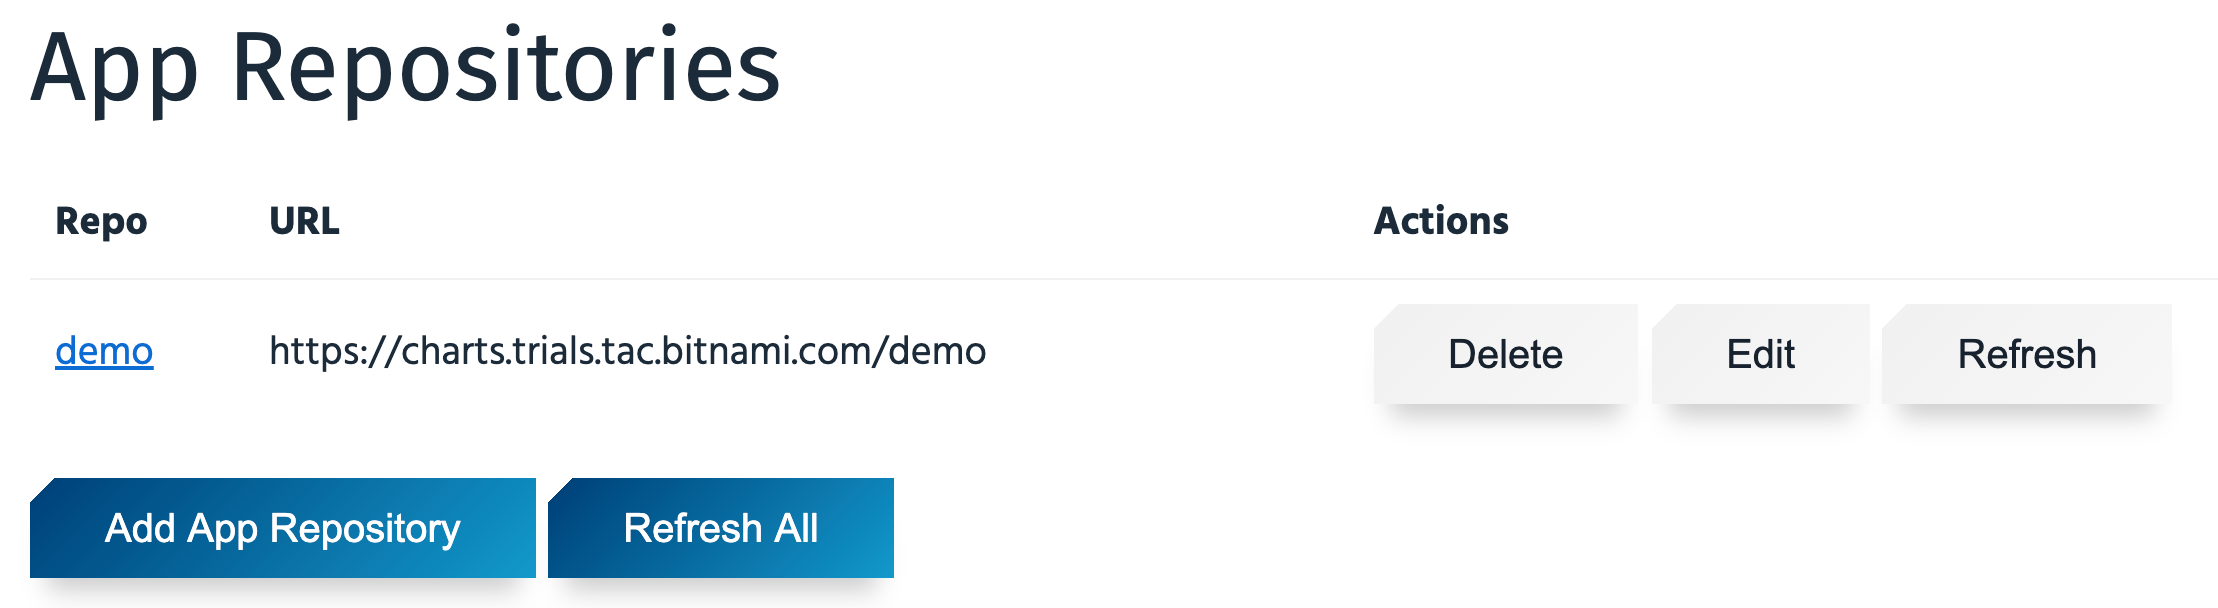
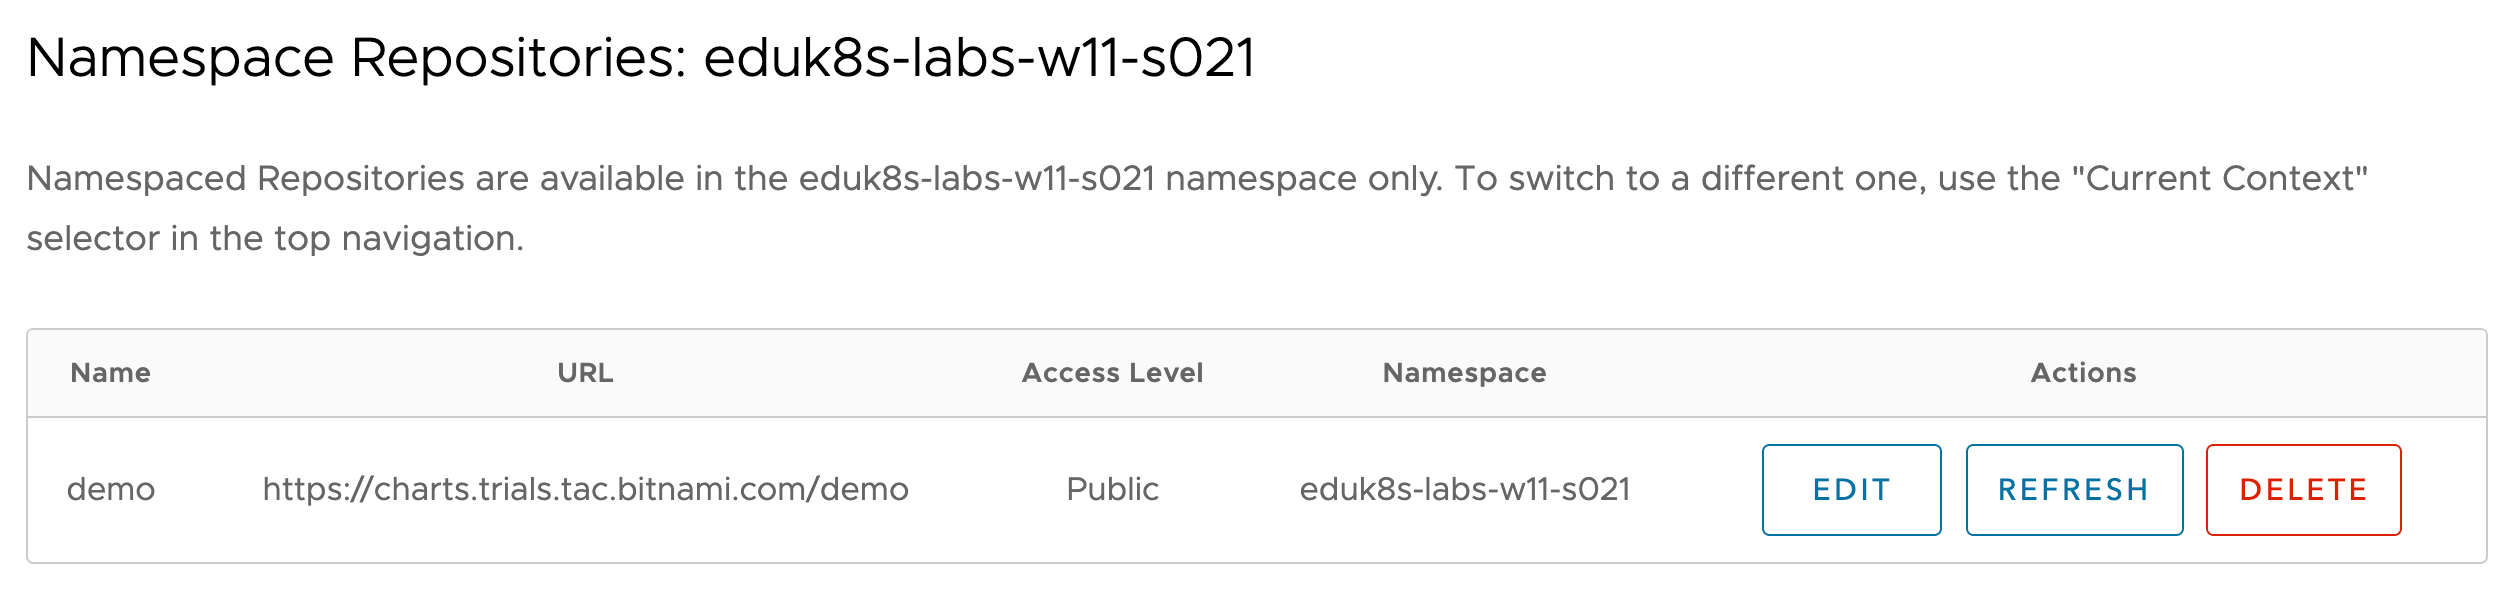
Update with new images for web interface.

diff --git a/workshop/content/exercises/03-adding-new-repositories.md b/workshop/content/exercises/03-adding-new-repositories.md
@@ -11,9 +11,11 @@ You should be presented with the page:
 
 ![](kubeapps-add-repositories.png)
 
-It will be empty at this point as no additional respositories have yet been added to the selected namespace.
+If there are any globally enabled catalogs they will be listed.
 
-To add a new application repository, click on the **Add App Repository** button. This will yield the popup:
+There should not be any catalogs registered against the current namespace.
+
+To add a new application repository to the current namespace, click on the **Add App Repository** button. This will yield the popup:
 
 ![](kubeapps-add-repository-popup.png)
 
@@ -33,6 +35,6 @@ All other fields can be left empty for this example.
 
 Click on **Install Repo** at the bottom of the popup to add this application repository.
 
-You should now see this repository listed.
+You should now see this repository listed against the namespace.
 
 ![](kubeapps-repository-list.png)
